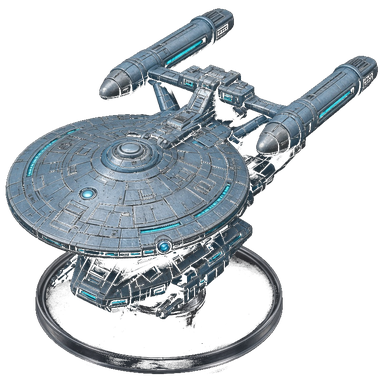
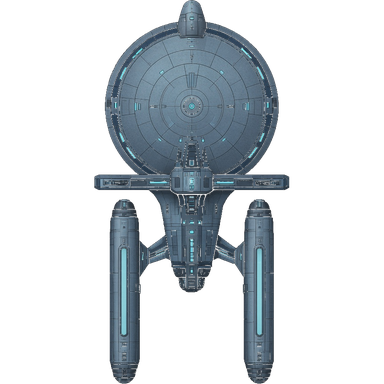
Use top-down ship tokens for board-plane rotation
Replace isometric mini art with top-down sprites so yaw in the hex
plane looks flat on the board instead of tipped over.

diff --git a/js/board.js b/js/board.js
@@ -264,8 +264,8 @@ const EVEN_FACING_DELTA = [
   [0, 1],
 ];
 
-/** Bow in the PNG points toward image bottom-left (local atan2). */
-const ART_NOSE_LOCAL = (3 * Math.PI) / 4;
+/** Bow in top-down PNGs points toward the top of the image (−Y in local space). */
+const ART_NOSE_LOCAL = -Math.PI / 2;
 
 function boardHeading(facing) {
   const [dc, dr] = EVEN_FACING_DELTA[((facing % 6) + 6) % 6];
@@ -274,64 +274,59 @@ function boardHeading(facing) {
   return Math.atan2(to.wy - from.wy, to.wx - from.wx);
 }
 
+function withBoardPlane(ctx, x, y, zoom, fn) {
+  ctx.save();
+  ctx.translate(x, y);
+  // Map flat board axes → screen (same basis as isoProject)
+  ctx.transform(ISO_X * zoom, ISO_Y * zoom, -ISO_X * zoom, ISO_Y * zoom, 0, 0);
+  fn();
+  ctx.restore();
+}
+
 function drawShipSprite(ctx, ship, x, y, selected, factionColor, camera) {
   const img = shipImage(ship.typeId);
   const heavy = ship.typeId === 'ca' || ship.typeId === 'd7';
   const facing = ((ship.facing % 6) + 6) % 6;
   const heading = boardHeading(facing);
-  // Size in board/world units; transform below maps world → screen with zoom
-  const worldSize = HEX * (heavy ? 1.0 : 0.85);
+  // Top-down tokens sized to sit inside a hex on the board plane
+  const worldSize = HEX * (heavy ? 0.95 : 0.8);
   const z = camera.zoom;
 
-  // Soft contact shadow in board plane
-  ctx.save();
-  ctx.translate(x, y);
-  ctx.transform(ISO_X * z, ISO_Y * z, -ISO_X * z, ISO_Y * z, 0, 0);
-  ctx.beginPath();
-  ctx.ellipse(0, 0, worldSize * 0.32, worldSize * 0.32, 0, 0, Math.PI * 2);
-  ctx.fillStyle = 'rgba(0,0,0,0.35)';
-  ctx.fill();
-  ctx.restore();
+  withBoardPlane(ctx, x, y, z, () => {
+    ctx.beginPath();
+    ctx.ellipse(0, 0, worldSize * 0.36, worldSize * 0.36, 0, 0, Math.PI * 2);
+    ctx.fillStyle = 'rgba(0,0,0,0.3)';
+    ctx.fill();
+  });
 
-  if (img) {
-    ctx.save();
-    ctx.translate(x, y);
-    // Map board-plane axes to screen (same basis as isoProject), then yaw on the board
-    ctx.transform(ISO_X * z, ISO_Y * z, -ISO_X * z, ISO_Y * z, 0, 0);
+  withBoardPlane(ctx, x, y, z, () => {
     ctx.rotate(heading - ART_NOSE_LOCAL);
-    ctx.drawImage(img, -worldSize / 2, -worldSize / 2, worldSize, worldSize);
-    ctx.restore();
-  } else {
-    ctx.save();
-    ctx.translate(x, y);
-    ctx.transform(ISO_X * z, ISO_Y * z, -ISO_X * z, ISO_Y * z, 0, 0);
+    if (img) {
+      ctx.drawImage(img, -worldSize / 2, -worldSize / 2, worldSize, worldSize);
+    } else {
+      ctx.beginPath();
+      ctx.moveTo(0, -worldSize * 0.4);
+      ctx.lineTo(worldSize * 0.22, worldSize * 0.25);
+      ctx.lineTo(-worldSize * 0.22, worldSize * 0.25);
+      ctx.closePath();
+      ctx.fillStyle = factionColor;
+      ctx.fill();
+    }
+  });
+
+  withBoardPlane(ctx, x, y, z, () => {
     ctx.rotate(heading);
     ctx.beginPath();
-    ctx.moveTo(worldSize * 0.4, 0);
-    ctx.lineTo(-worldSize * 0.25, worldSize * 0.22);
-    ctx.lineTo(-worldSize * 0.25, -worldSize * 0.22);
+    ctx.moveTo(worldSize * 0.5, 0);
+    ctx.lineTo(worldSize * 0.3, worldSize * 0.11);
+    ctx.lineTo(worldSize * 0.3, -worldSize * 0.11);
     ctx.closePath();
-    ctx.fillStyle = factionColor;
+    ctx.fillStyle = selected ? '#ffe08a' : '#f2f7fb';
+    ctx.strokeStyle = 'rgba(0,0,0,0.65)';
+    ctx.lineWidth = 1 / Math.max(z, 0.5);
     ctx.fill();
-    ctx.restore();
-  }
-
-  // Facing chevron, also in the board plane
-  ctx.save();
-  ctx.translate(x, y);
-  ctx.transform(ISO_X * z, ISO_Y * z, -ISO_X * z, ISO_Y * z, 0, 0);
-  ctx.rotate(heading);
-  ctx.beginPath();
-  ctx.moveTo(worldSize * 0.48, 0);
-  ctx.lineTo(worldSize * 0.28, worldSize * 0.12);
-  ctx.lineTo(worldSize * 0.28, -worldSize * 0.12);
-  ctx.closePath();
-  ctx.fillStyle = selected ? '#ffe08a' : '#f2f7fb';
-  ctx.strokeStyle = 'rgba(0,0,0,0.65)';
-  ctx.lineWidth = 1 / Math.max(z, 0.5);
-  ctx.fill();
-  ctx.stroke();
-  ctx.restore();
+    ctx.stroke();
+  });
 }
 
 export function drawFiringArcs(ctx, ship, weapon, originX, originY, cols, rows, blockedSet, camera) {

diff --git a/js/ships.js b/js/ships.js
@@ -1,10 +1,10 @@
 /** Ship sprite loader — original stylized starship art (not official Trek IP). */
 
 const SRC = {
-  ca: 'assets/ships/ca.png',
-  ff: 'assets/ships/ff.png',
-  d7: 'assets/ships/d7.png',
-  f5: 'assets/ships/f5.png',
+  ca: 'assets/ships/ca.png?v=top1',
+  ff: 'assets/ships/ff.png?v=top1',
+  d7: 'assets/ships/d7.png?v=top1',
+  f5: 'assets/ships/f5.png?v=top1',
 };
 
 const cache = new Map();

diff --git a/sw.js b/sw.js
@@ -1,4 +1,4 @@
-const CACHE = 'starfleet-tactics-v9';
+const CACHE = 'starfleet-tactics-v10';
 const ASSETS = [
   './',
   './index.html',
